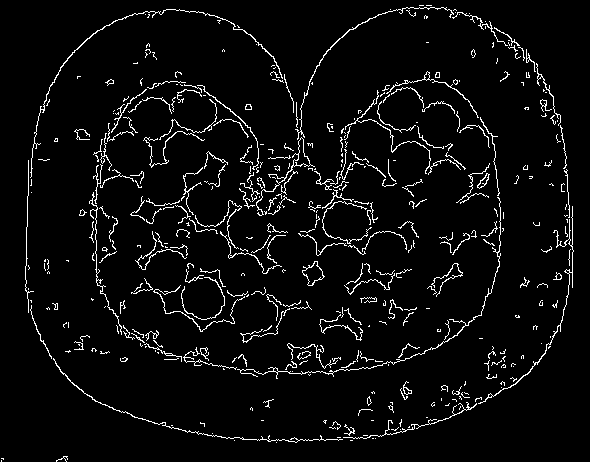
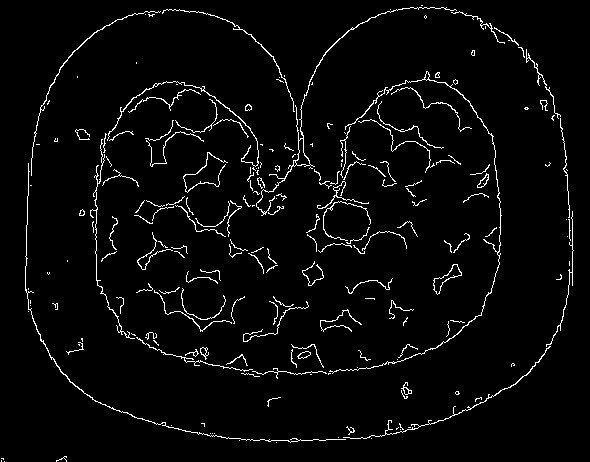
changes

diff --git a/3_hough/code.py b/3_hough/code.py
@@ -36,8 +36,8 @@ def hough_circle_transform(image, edge_image, r_min, r_max, delta_r, theta_step_
       circles.append((x, y, r, current_vote))
       if x >= 0 and x < cols and y >= 0 and y < rows:
         accu[y][x] = 255
-      else:
-        accu[y][x] = 0
+      # else:
+      #   accu[y][x] = 0
 
   pixel_threshold = pixel_Threshold
   circ = []
@@ -48,8 +48,8 @@ def hough_circle_transform(image, edge_image, r_min, r_max, delta_r, theta_step_
   for x, y, r, v in circles:
     hough_circles_with_center = cv2.circle(hough_circles, (x,y), r, (0,0,255), 2)
     hough_circles_with_center = cv2.circle(hough_circles,(x,y),2,(0,255,0),3)
-  for x, y, r, v in circles:
     hough_circles_without_center = cv2.circle(hough_circles_prime, (x,y), r, (0,0,255), 2)
+
   return hough_circles_with_center,accu, hough_circles_without_center
 
 def main():
@@ -66,8 +66,9 @@ def main():
   if ksize == 0:
     input_img = input_img
   else:
-    input_img = cv2.medianBlur(input_img,ksize)
+    input_img = cv2.bilateralFilter(input_img,ksize,50,50)
   edge_image = cv2.Canny(input_img,100, 200)
+  # print(edge_image.shape)
   cv2.imshow('Edge Image', edge_image)
   print('Press any key to proceed')
   cv2.waitKey(0)
